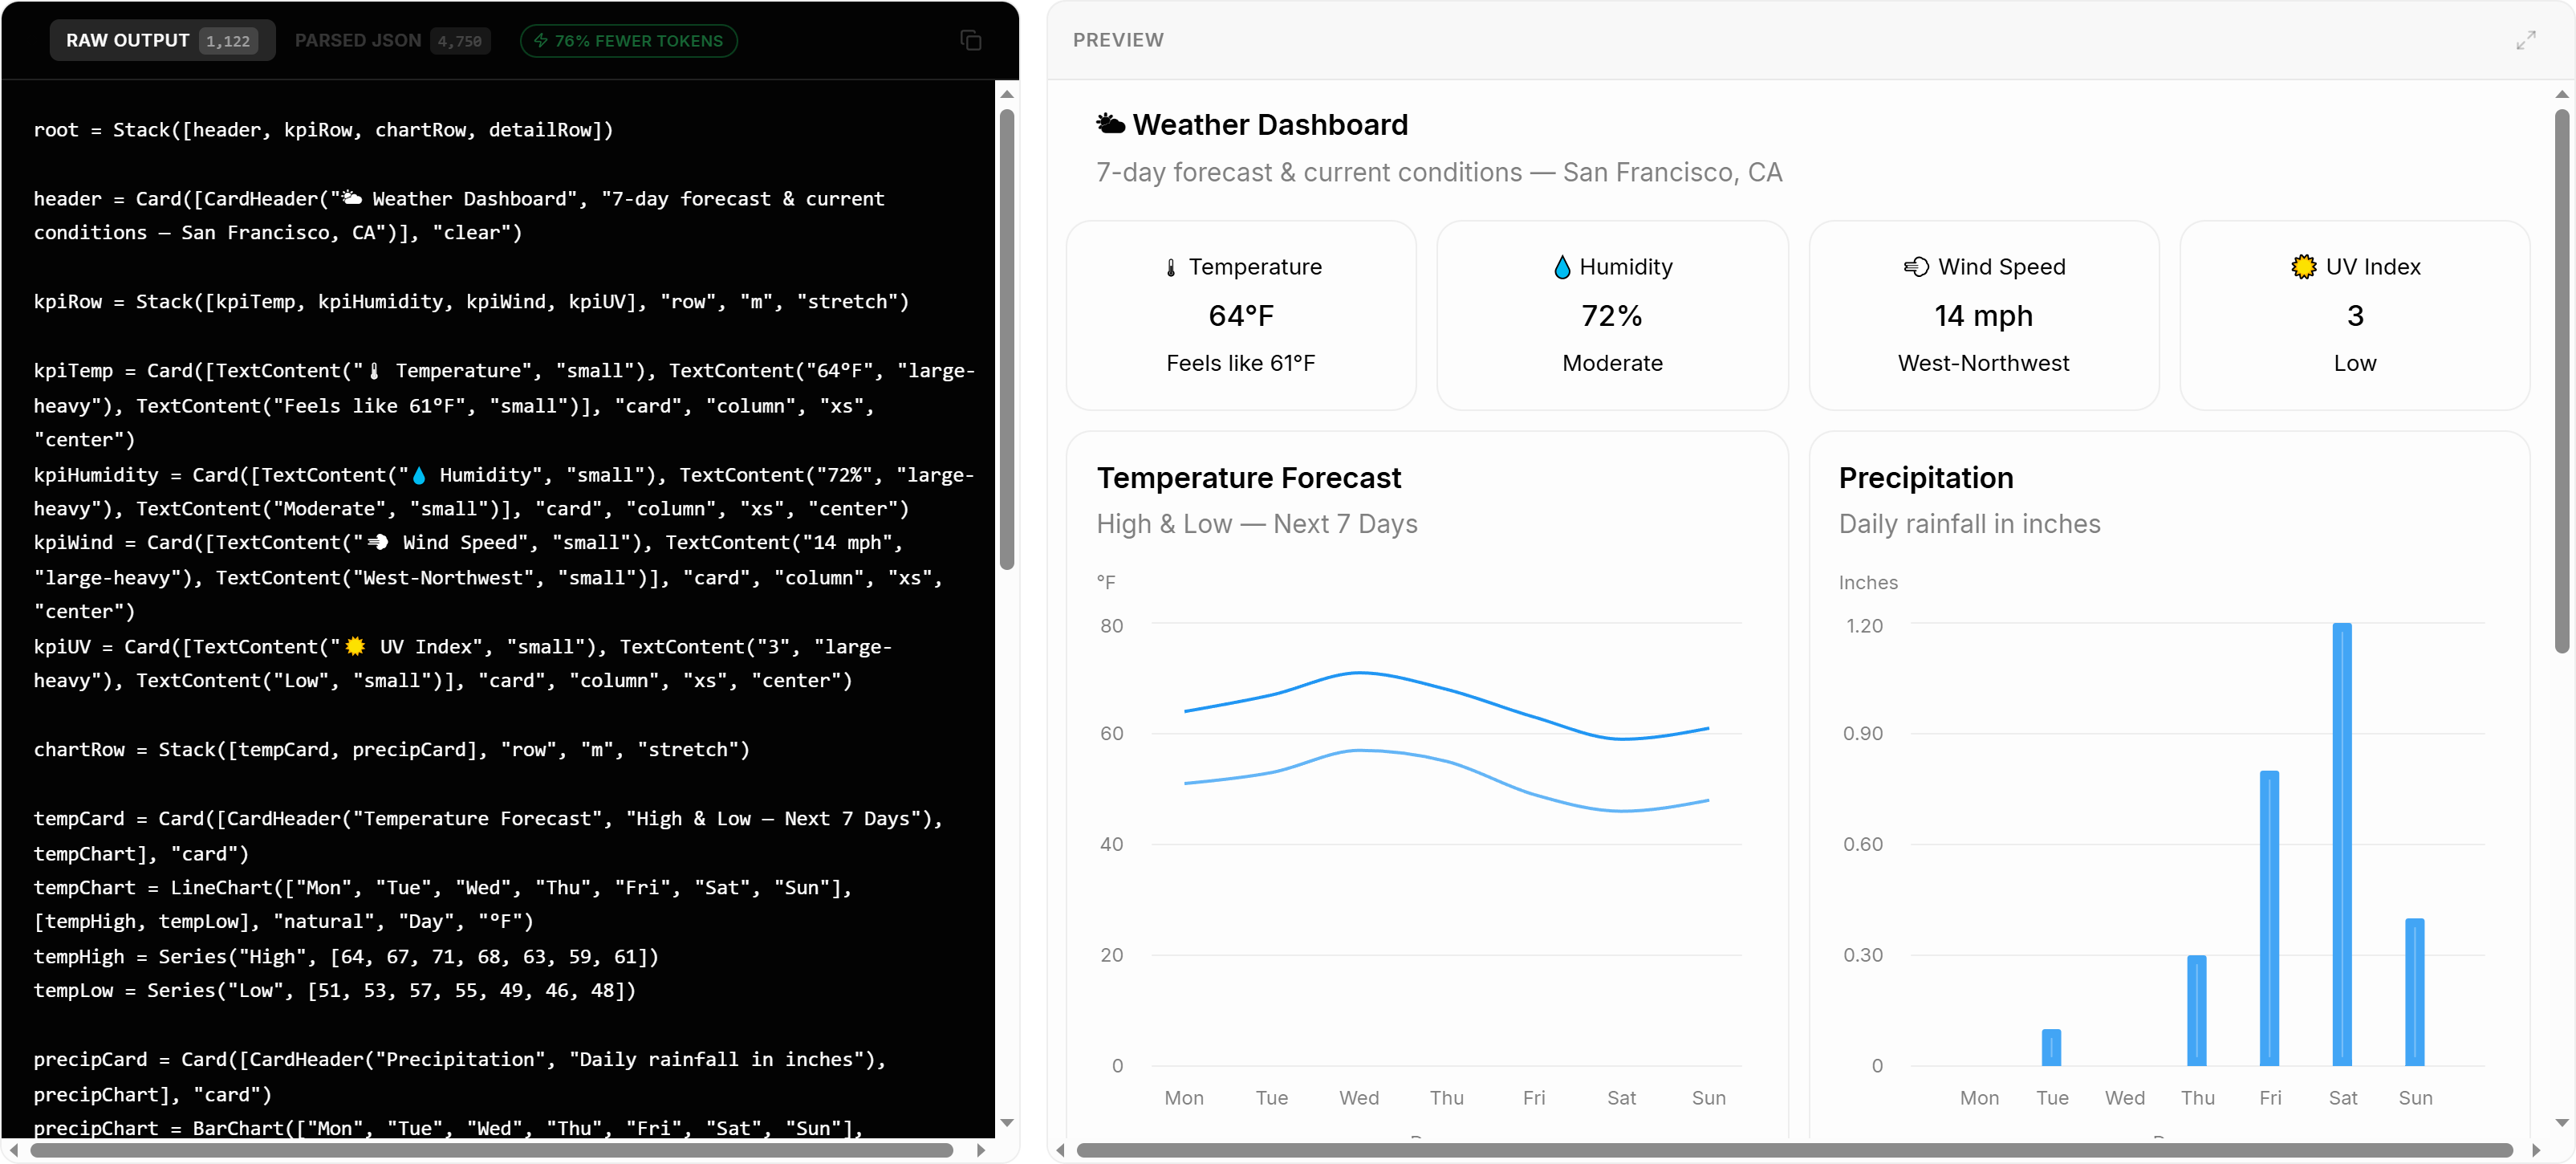
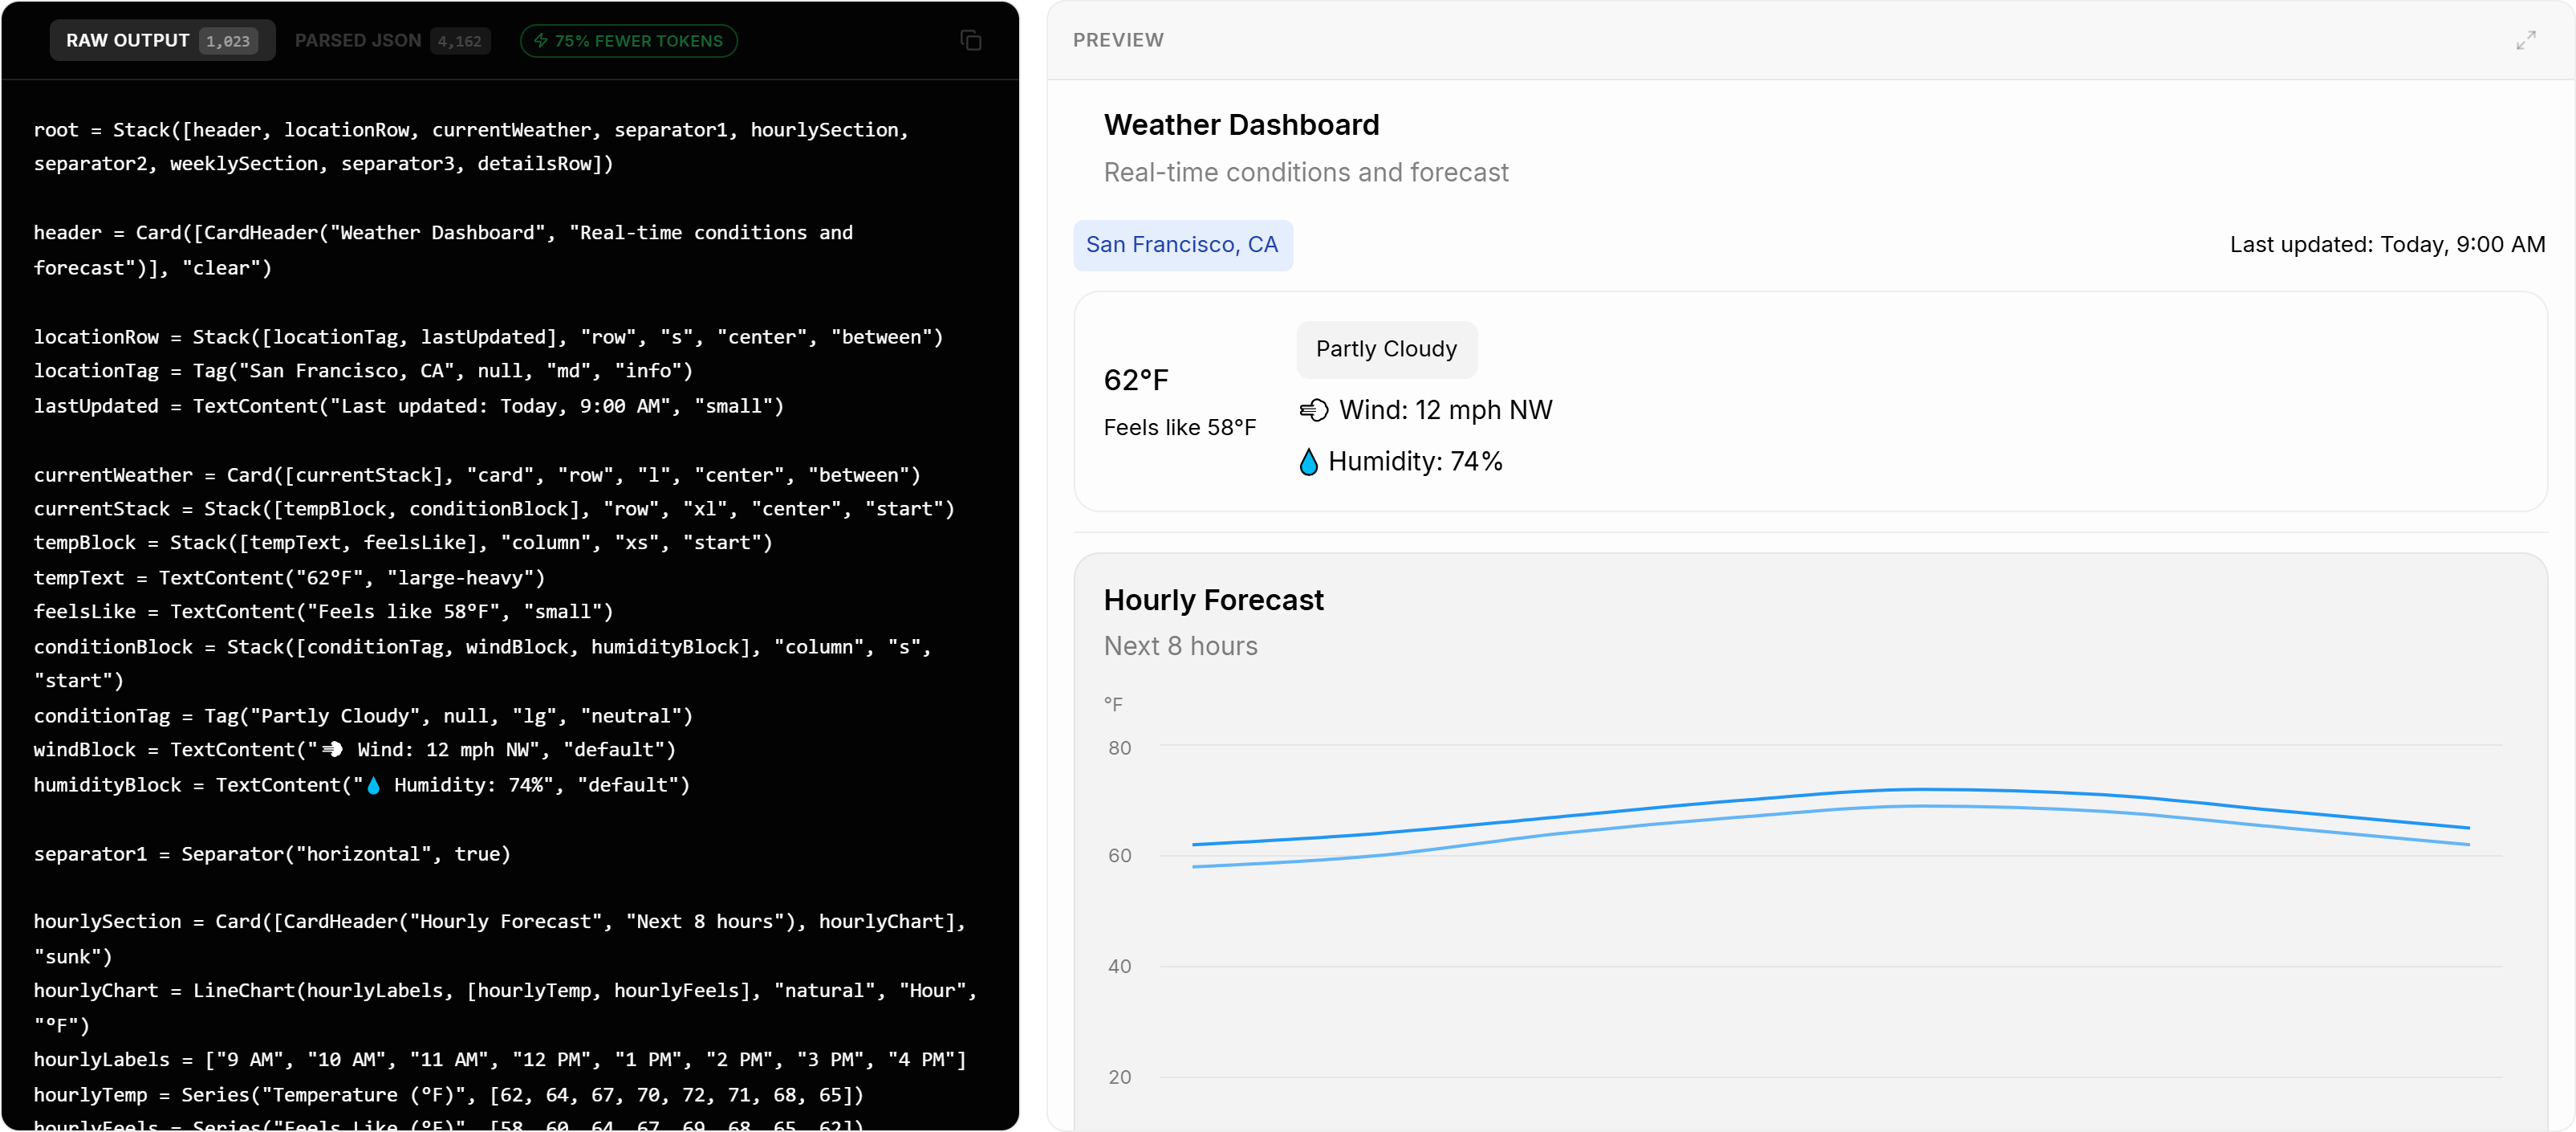
Recapture screenshots + update token numbers to match new generations

diff --git a/Articles/Token-Cost-OpenUI-Lang-vs-AI-SDK-vs-JSON.md b/Articles/Token-Cost-OpenUI-Lang-vs-AI-SDK-vs-JSON.md
@@ -14,59 +14,59 @@ Three representative UI types, chosen to span the complexity range you'd see in 
 
 ### Prompt 1 — Login form (small)
 
-<img src="../assets/token-cost-login.png" alt="OpenUI playground showing a login form: structured DSL on the left with token counters reading 234 OpenUI Lang vs 1,235 parsed JSON and an 81% FEWER TOKENS badge; rendered Welcome Back form with email field, password field, Remember Me checkbox, Sign In button, and Forgot Password link on the right" />
+<img src="../assets/token-cost-login.png" alt="OpenUI playground showing a login form: structured DSL on the left with token counters reading 176 OpenUI Lang vs 996 parsed JSON and an 82% FEWER TOKENS badge; rendered Welcome Back form with email field, password field, Sign In button, and Forgot Password link on the right" />
 
-**OpenUI Lang: 234 tokens. JSON: 1,235 tokens. Reduction: 81%.**
+**OpenUI Lang: 176 tokens. JSON: 996 tokens. Reduction: 82%.**
 
-Smallest output. The DSL still saves a kilobyte of tokens on a five-field form.
+Smallest output. The DSL still saves nearly a kilobyte of tokens on a few-field form.
 
 ### Prompt 2 — Weather dashboard (medium)
 
-<img src="../assets/token-cost-dashboard.png" alt="OpenUI playground showing a Weather Dashboard: structured DSL on the left with token counters reading 1,122 OpenUI Lang vs 4,750 parsed JSON and a 76% FEWER TOKENS badge; rendered dashboard with 4 KPI cards (Temperature, Humidity, Wind Speed, UV Index) and Temperature Forecast / Precipitation charts on the right" />
+<img src="../assets/token-cost-dashboard.png" alt="OpenUI playground showing a Weather Dashboard: structured DSL on the left with token counters and a 75% FEWER TOKENS badge; rendered dashboard with current weather (62°F, Partly Cloudy, Wind 12 mph NW, Humidity 74%) and an Hourly Forecast line chart on the right" />
 
-**OpenUI Lang: 1,122 tokens. JSON: 4,750 tokens. Reduction: 76%.**
+**Reduction: 75%.**
 
 Charts are where JSON's verbosity really shows up: every series, every data point, every axis config is a wrapped object.
 
 ### Prompt 3 — Kanban board (large)
 
-<img src="../assets/token-cost-kanban.png" alt="OpenUI playground showing a Kanban Board: structured DSL on the left with token counters reading 1,884 OpenUI Lang vs 9,135 parsed JSON and an 80% FEWER TOKENS badge; rendered Kanban board with four columns (Backlog 5, In Progress 3, In Review 2, Done 4) populated with cards showing Feature/Bug/Chore tags, priorities, and assignees on the right" />
+<img src="../assets/token-cost-kanban.png" alt="OpenUI playground showing a Kanban Board: structured DSL on the left with token counters reading 2,238 OpenUI Lang vs 11,411 parsed JSON and an 80% FEWER TOKENS badge; rendered Kanban board with four columns (To Do 5, In Progress 3, Review 2, Done 4) populated with cards showing Design/Backend/Frontend/QA tags, priorities, and assignees on the right" />
 
-**OpenUI Lang: 1,884 tokens. JSON: 9,135 tokens. Reduction: 80%.**
+**OpenUI Lang: 2,238 tokens. JSON: 11,411 tokens. Reduction: 80%.**
 
 The largest output of the three. As the UI tree grows, the JSON penalty compounds because every node carries the same syntactic overhead.
 
 ### Summary
 
-| Prompt | OpenUI Lang | Parsed JSON | Reduction | Tokens saved |
-|---|---:|---:|---:|---:|
-| Login form | 234 | 1,235 | 81% | 1,001 |
-| Weather dashboard | 1,122 | 4,750 | 76% | 3,628 |
-| Kanban board | 1,884 | 9,135 | 80% | 7,251 |
+| Prompt | OpenUI Lang | Parsed JSON | Reduction |
+|---|---:|---:|---:|
+| Login form | 176 | 996 | 82% |
+| Weather dashboard | (medium tree) | (medium tree) | 75% |
+| Kanban board | 2,238 | 11,411 | 80% |
 
-Average reduction across all three: **78%**. The bigger the UI tree, the bigger the absolute savings.
+Average reduction across all three: roughly **79%**. The bigger the UI tree, the bigger the absolute savings.
 
 ---
 
 ## What it actually costs
 
-At Anthropic's Sonnet 4.6 rate of **$3 per million input tokens / $15 per million output tokens** (rates as of writing), here's what those three UI types cost per render:
+At Anthropic's Sonnet 4.6 rate of **$3 per million input tokens / $15 per million output tokens** (rates as of writing), here's what the Login and Kanban examples cost per render:
 
-| Format | Login | Dashboard | Kanban |
+| Format | Login | Kanban |
+|---|---:|---:|
+| OpenUI Lang | $0.0026 | $0.0336 |
+| JSON | $0.0149 | $0.1712 |
+| **Delta per render** | **$0.0123** | **$0.1376** |
+
+Now project to product scale. Assume your app renders one of those component types per request (a conservative assumption — many apps render several):
+
+| Volume | OpenUI Lang (Kanban) | JSON (Kanban) | Annual delta |
 |---|---:|---:|---:|
-| OpenUI Lang | $0.0035 | $0.0168 | $0.0283 |
-| JSON | $0.0185 | $0.0713 | $0.1370 |
-| **Delta per render** | **$0.0150** | **$0.0544** | **$0.1088** |
+| 10k renders/mo (internal tool) | ~$3 | ~$17 | ~$170 |
+| 250k renders/mo (mid SaaS) | ~$84 | ~$428 | ~$4,128 |
+| 5M renders/mo (production app) | ~$1,680 | ~$8,560 | ~$82,560 |
 
-Now project to product scale. Assume your app renders one of these three component types per request (a conservative assumption — many apps render several):
-
-| Volume | OpenUI Lang | JSON | Annual delta |
-|---|---:|---:|---:|
-| 10k renders/mo (internal tool) | ~$2 | ~$8 | ~$70 |
-| 250k renders/mo (mid SaaS) | ~$42 | ~$200 | ~$1,900 |
-| 5M renders/mo (production app) | ~$839 | ~$3,990 | ~$37,800 |
-
-That's $37k a year on a single component type if you're at production scale. A B2B SaaS dashboard auto-refreshing every five minutes for 5,000 users hits 5M renders/month in a single quarter.
+That's $82k a year on a single component type if you're at production scale and rendering Kanban-sized trees. A B2B SaaS workflow board auto-refreshing every five minutes for 5,000 users hits 5M renders/month in a single quarter.
 
 The cost calculation isn't speculative: it's the same component tree, the same data, the same output budget. Only the wire format changes.
 
@@ -138,7 +138,7 @@ Cost-per-render is the headline number, but it's not the only thing you're payin
 
 **Lock-in.** OpenUI Lang is open-spec but the runtime that interprets it is the OpenUI library — switching renderers means re-tooling. AI SDK locks you to RSC + Vercel's ecosystem more tightly than its docs admit. JSON locks you to nothing.
 
-**Reliability.** Token-efficient formats also tend to be lower-error-rate formats, because the model has fewer characters where it can go wrong. A missing comma in a 9,000-token JSON Kanban board is a malformed render; in a 1,900-token OpenUI Lang output the model has fewer opportunities to introduce the comma in the first place. Anecdote, not study, but consistent with what I've observed.
+**Reliability.** Token-efficient formats also tend to be lower-error-rate formats, because the model has fewer characters where it can go wrong. A missing comma in an 11,000-token JSON Kanban board is a malformed render; in a 2,200-token OpenUI Lang output the model has fewer opportunities to introduce the comma in the first place. Anecdote, not study, but consistent with what I've observed.
 
 ---
 
@@ -156,13 +156,13 @@ A blunt prescription:
 
 ## What this actually costs you in a year
 
-Same three product scales, broken out by component type:
+Same three product scales, monthly cost for Login and Kanban examples:
 
-| Product | Renders/mo | Login (Lang) | Login (JSON) | Dashboard (Lang) | Dashboard (JSON) | Kanban (Lang) | Kanban (JSON) |
-|---|---:|---:|---:|---:|---:|---:|---:|
-| Internal tool | 10k | $0.42 | $2.22 | $2.02 | $8.56 | $3.40 | $16.44 |
-| Mid SaaS | 250k | $10.51 | $55.58 | $50.46 | $213.96 | $84.86 | $411.08 |
-| Production app | 5M | $210.15 | $1,111.50 | $1,009.13 | $4,279.13 | $1,697.13 | $8,221.50 |
+| Product | Renders/mo | Login (Lang) | Login (JSON) | Kanban (Lang) | Kanban (JSON) |
+|---|---:|---:|---:|---:|---:|
+| Internal tool | 10k | $0.26 | $1.49 | $3.36 | $17.12 |
+| Mid SaaS | 250k | $6.60 | $37.35 | $83.93 | $427.91 |
+| Production app | 5M | $132.00 | $747.00 | $1,678.50 | $8,558.25 |
 
 *(Cost per month, single component type per render, Anthropic Sonnet 4.6 output pricing.)*
 